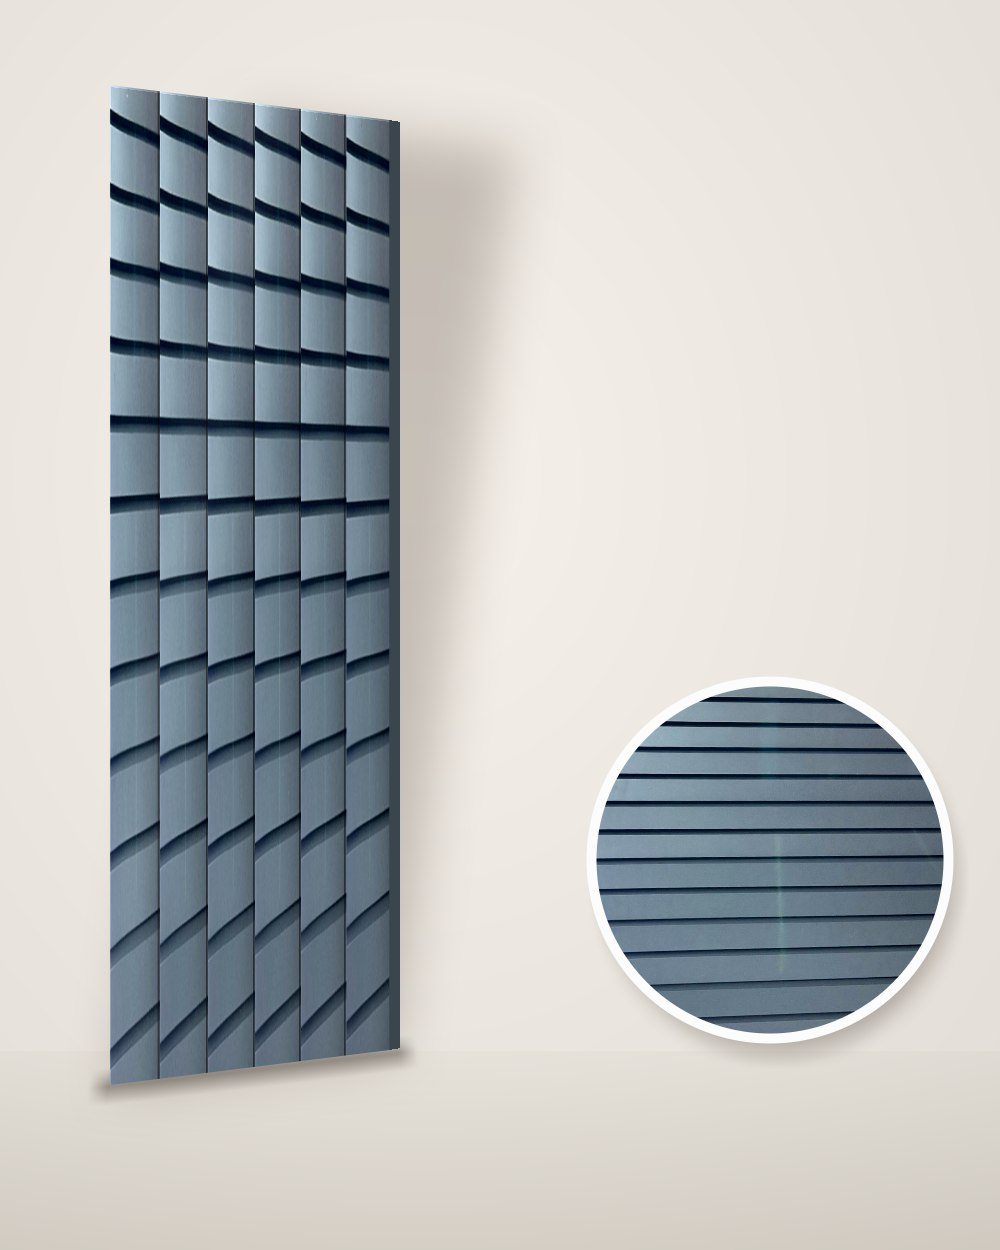
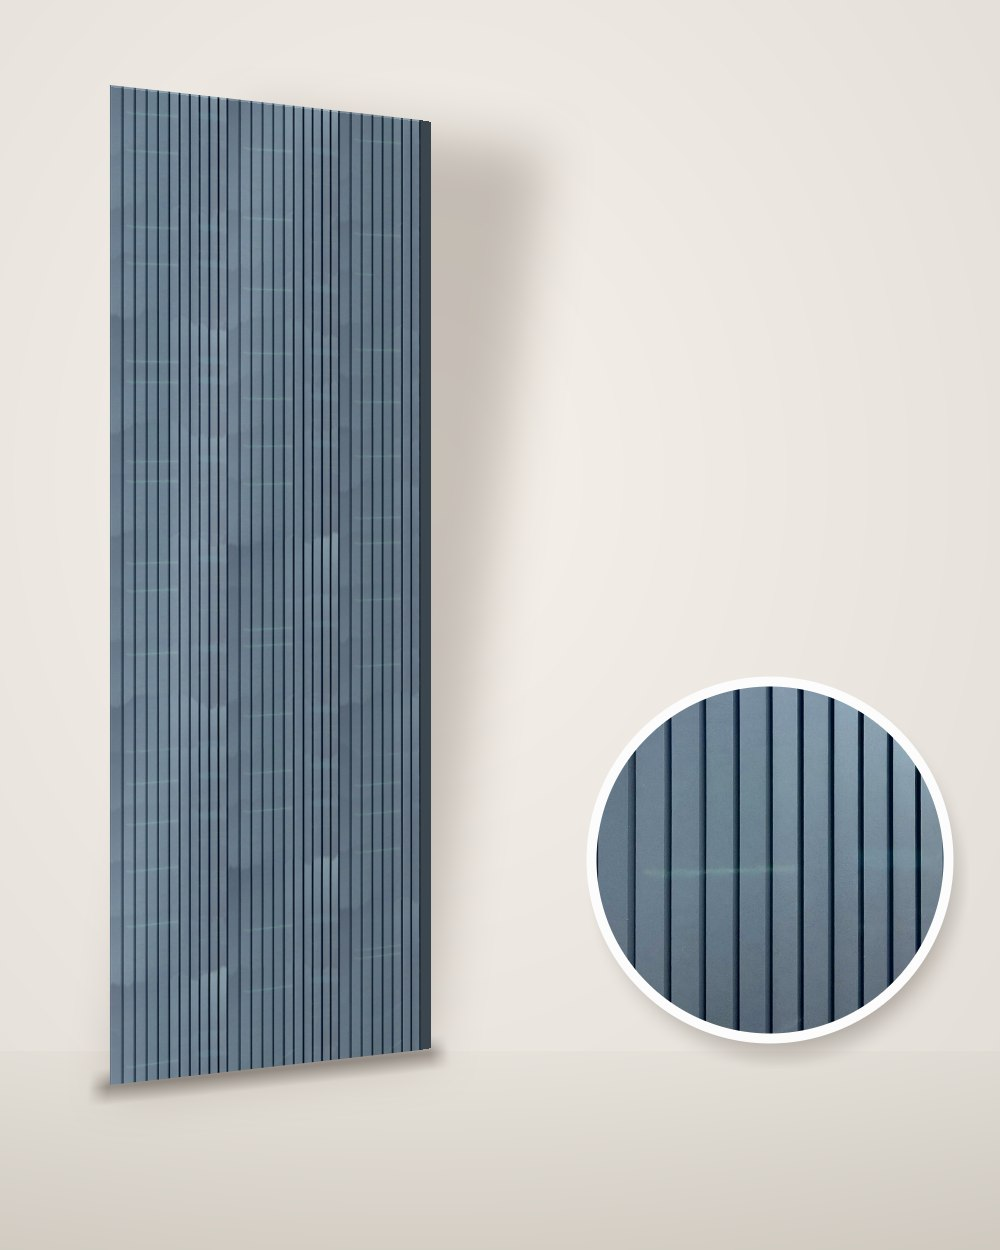
Bardages extérieurs : planches dans le sens de la longueur, droites
- Photos des bardages tournées de 90° vers la droite (demande de Raphael) : les planches suivent la longueur
- Chaque joint suivi et redressé (inclinaison et perspective des photos supprimées), bulle sur la photo redressée
- Pan de 100 x 290 cm continué à partir de la photo ; grès 50 x 200 : un panneau, rainure dans la longueur
- Couleur nivelée colonne par colonne (plus de raccords de blocs)

Changed region(s): [[0.093, 0.0624, 0.434, 0.8736], [0.589, 0.5304, 0.961, 0.8424]]

diff --git a/scripts/ImageKit.cs b/scripts/ImageKit.cs
@@ -685,6 +685,43 @@ public static class Kit
         return p;
     }
 
+    // ---------- outdoor cladding: boards run along the length (photos taken lying down are turned 90 degrees right) ----------
+    // True when the photo's straight lines (joints, grooves) run horizontally: compares the structure of the
+    // row-mean and column-mean profiles (gradients removed), so a single joint on a plain panel counts too.
+    static bool LinesHorizontal(KImg s)
+    {
+        int W = s.W, H = s.H; double[] rm = new double[H], cm = new double[W];
+        for (int y = 0; y < H; y++) for (int x = 0; x < W; x++) { int i = (y * W + x) * 3; double l = 0.114 * s.D[i] + 0.587 * s.D[i + 1] + 0.299 * s.D[i + 2]; rm[y] += l / W; cm[x] += l / H; }
+        double[] hr = HighPass(rm, Math.Max(3, H / 10)), hc = HighPass(cm, Math.Max(3, W / 10)); double vr = 0, vc = 0;
+        for (int y = H / 20; y < H - H / 20; y++) vr += hr[y] * hr[y]; vr /= Math.Max(1, H - H / 10);
+        for (int x = W / 20; x < W - W / 20; x++) vc += hc[x] * hc[x]; vc /= Math.Max(1, W - W / 10);
+        return vr > vc;
+    }
+    // The cladding photo turned 90 degrees right when its boards lie down, then every joint tracked and made
+    // exactly vertical (tilt and perspective removed) and cropped from the first to the last joint.
+    // frac: share of the photo's width that was kept.
+    static KImg BoardsSample(KImg tex, out double frac)
+    {
+        frac = 1; KImg s = TrimWhite(tex); if (LinesHorizontal(s)) s = Rotate90(s);   // Rotate90 = clockwise
+        double P; List<double> g; KImg st = StraightenFlutes(s, out P, out g);
+        if (st == null || g.Count < 2) return Deskew(s);
+        int a = (int)Math.Round(g[0]), b = (int)Math.Round(g[g.Count - 1]);
+        if (b - a < st.W / 3) return st;
+        frac = (b - a) / (double)st.W; return st.Crop(a, 0, b - a, st.H);
+    }
+    public static KImg StraightBoards(KImg tex) { double f; return BoardsSample(tex, out f); }
+    // Face wCm wide x lenCm long with the boards along the length, continued from the photo
+    // (columns of the sample side by side, joined at a joint; the photo covers sampleCm across the boards).
+    public static KImg BoardsFace(KImg tex, double wCm, double lenCm, double sampleCm, string synth, int seed)
+    {
+        double frac; KImg s = BoardsSample(tex, out frac);
+        KImg f = PlateSynth(s, "lines", wCm, lenCm, sampleCm * frac, 1, 1300, seed);
+        // same column layout as PlateSynth: level each column's rows to the sample colour (no block joins)
+        double ppc = 1300 / Math.Max(wCm, lenCm); int sw = Math.Max(8, (int)Math.Round(sampleCm * frac * ppc));
+        double mb, mg, mr; FlattenLight(s, false, true); MeanColor(s, out mb, out mg, out mr); double[] mc = { mb, mg, mr };
+        for (int x0 = 0; x0 < f.W; x0 += sw) LevelRows(f, mc, Math.Max(3, f.H / 80), x0, Math.Min(f.W, x0 + sw));
+        return f;
+    }
     // kind: plate | photo. Returns a 1000x1250 product shot.
     public static KImg RenderPack(KImg tex, string kind, double wcm, double hcm, double tileWcm, double tileHcm, int slats, bool mirrorX, bool gloss)
     { return RenderPack(tex, kind, wcm, hcm, tileWcm, tileHcm, slats, mirrorX, gloss, "tile", 0, 1); }
@@ -986,11 +1023,12 @@ public static class Kit
     }
     // Pulls the slowly varying colour of the rows back to the sample's mean colour: the tone matching of successive
     // blocks must not drift down a long slat (one flute turning orange, the next grey).
-    static void LevelRows(KImg im, double[] target, int radius)
+    static void LevelRows(KImg im, double[] target, int radius) { LevelRows(im, target, radius, 0, im.W); }
+    static void LevelRows(KImg im, double[] target, int radius, int xa, int xb)
     {
-        int W = im.W, H = im.H; double[] rm = new double[H * 3];
-        for (int y = 0; y < H; y++) for (int x = 0; x < W; x++) for (int c = 0; c < 3; c++) rm[y * 3 + c] += im.D[(y * W + x) * 3 + c];
-        for (int i = 0; i < rm.Length; i++) rm[i] /= W;
+        int W = im.W, H = im.H; double[] rm = new double[H * 3]; if (xb <= xa) return;
+        for (int y = 0; y < H; y++) for (int x = xa; x < xb; x++) for (int c = 0; c < 3; c++) rm[y * 3 + c] += im.D[(y * W + x) * 3 + c];
+        for (int i = 0; i < rm.Length; i++) rm[i] /= (xb - xa);
         for (int y = 0; y < H; y++)
         {
             double[] sm = new double[3]; int n = 0;
@@ -998,7 +1036,7 @@ public static class Kit
             for (int c = 0; c < 3; c++)
             {
                 double off = target[c] - sm[c] / n;
-                for (int x = 0; x < W; x++) { int i = (y * W + x) * 3 + c; im.D[i] = (byte)Math.Max(0, Math.Min(255, im.D[i] + off + 0.5)); }
+                for (int x = xa; x < xb; x++) { int i = (y * W + x) * 3 + c; im.D[i] = (byte)Math.Max(0, Math.Min(255, im.D[i] + off + 0.5)); }
             }
         }
     }
